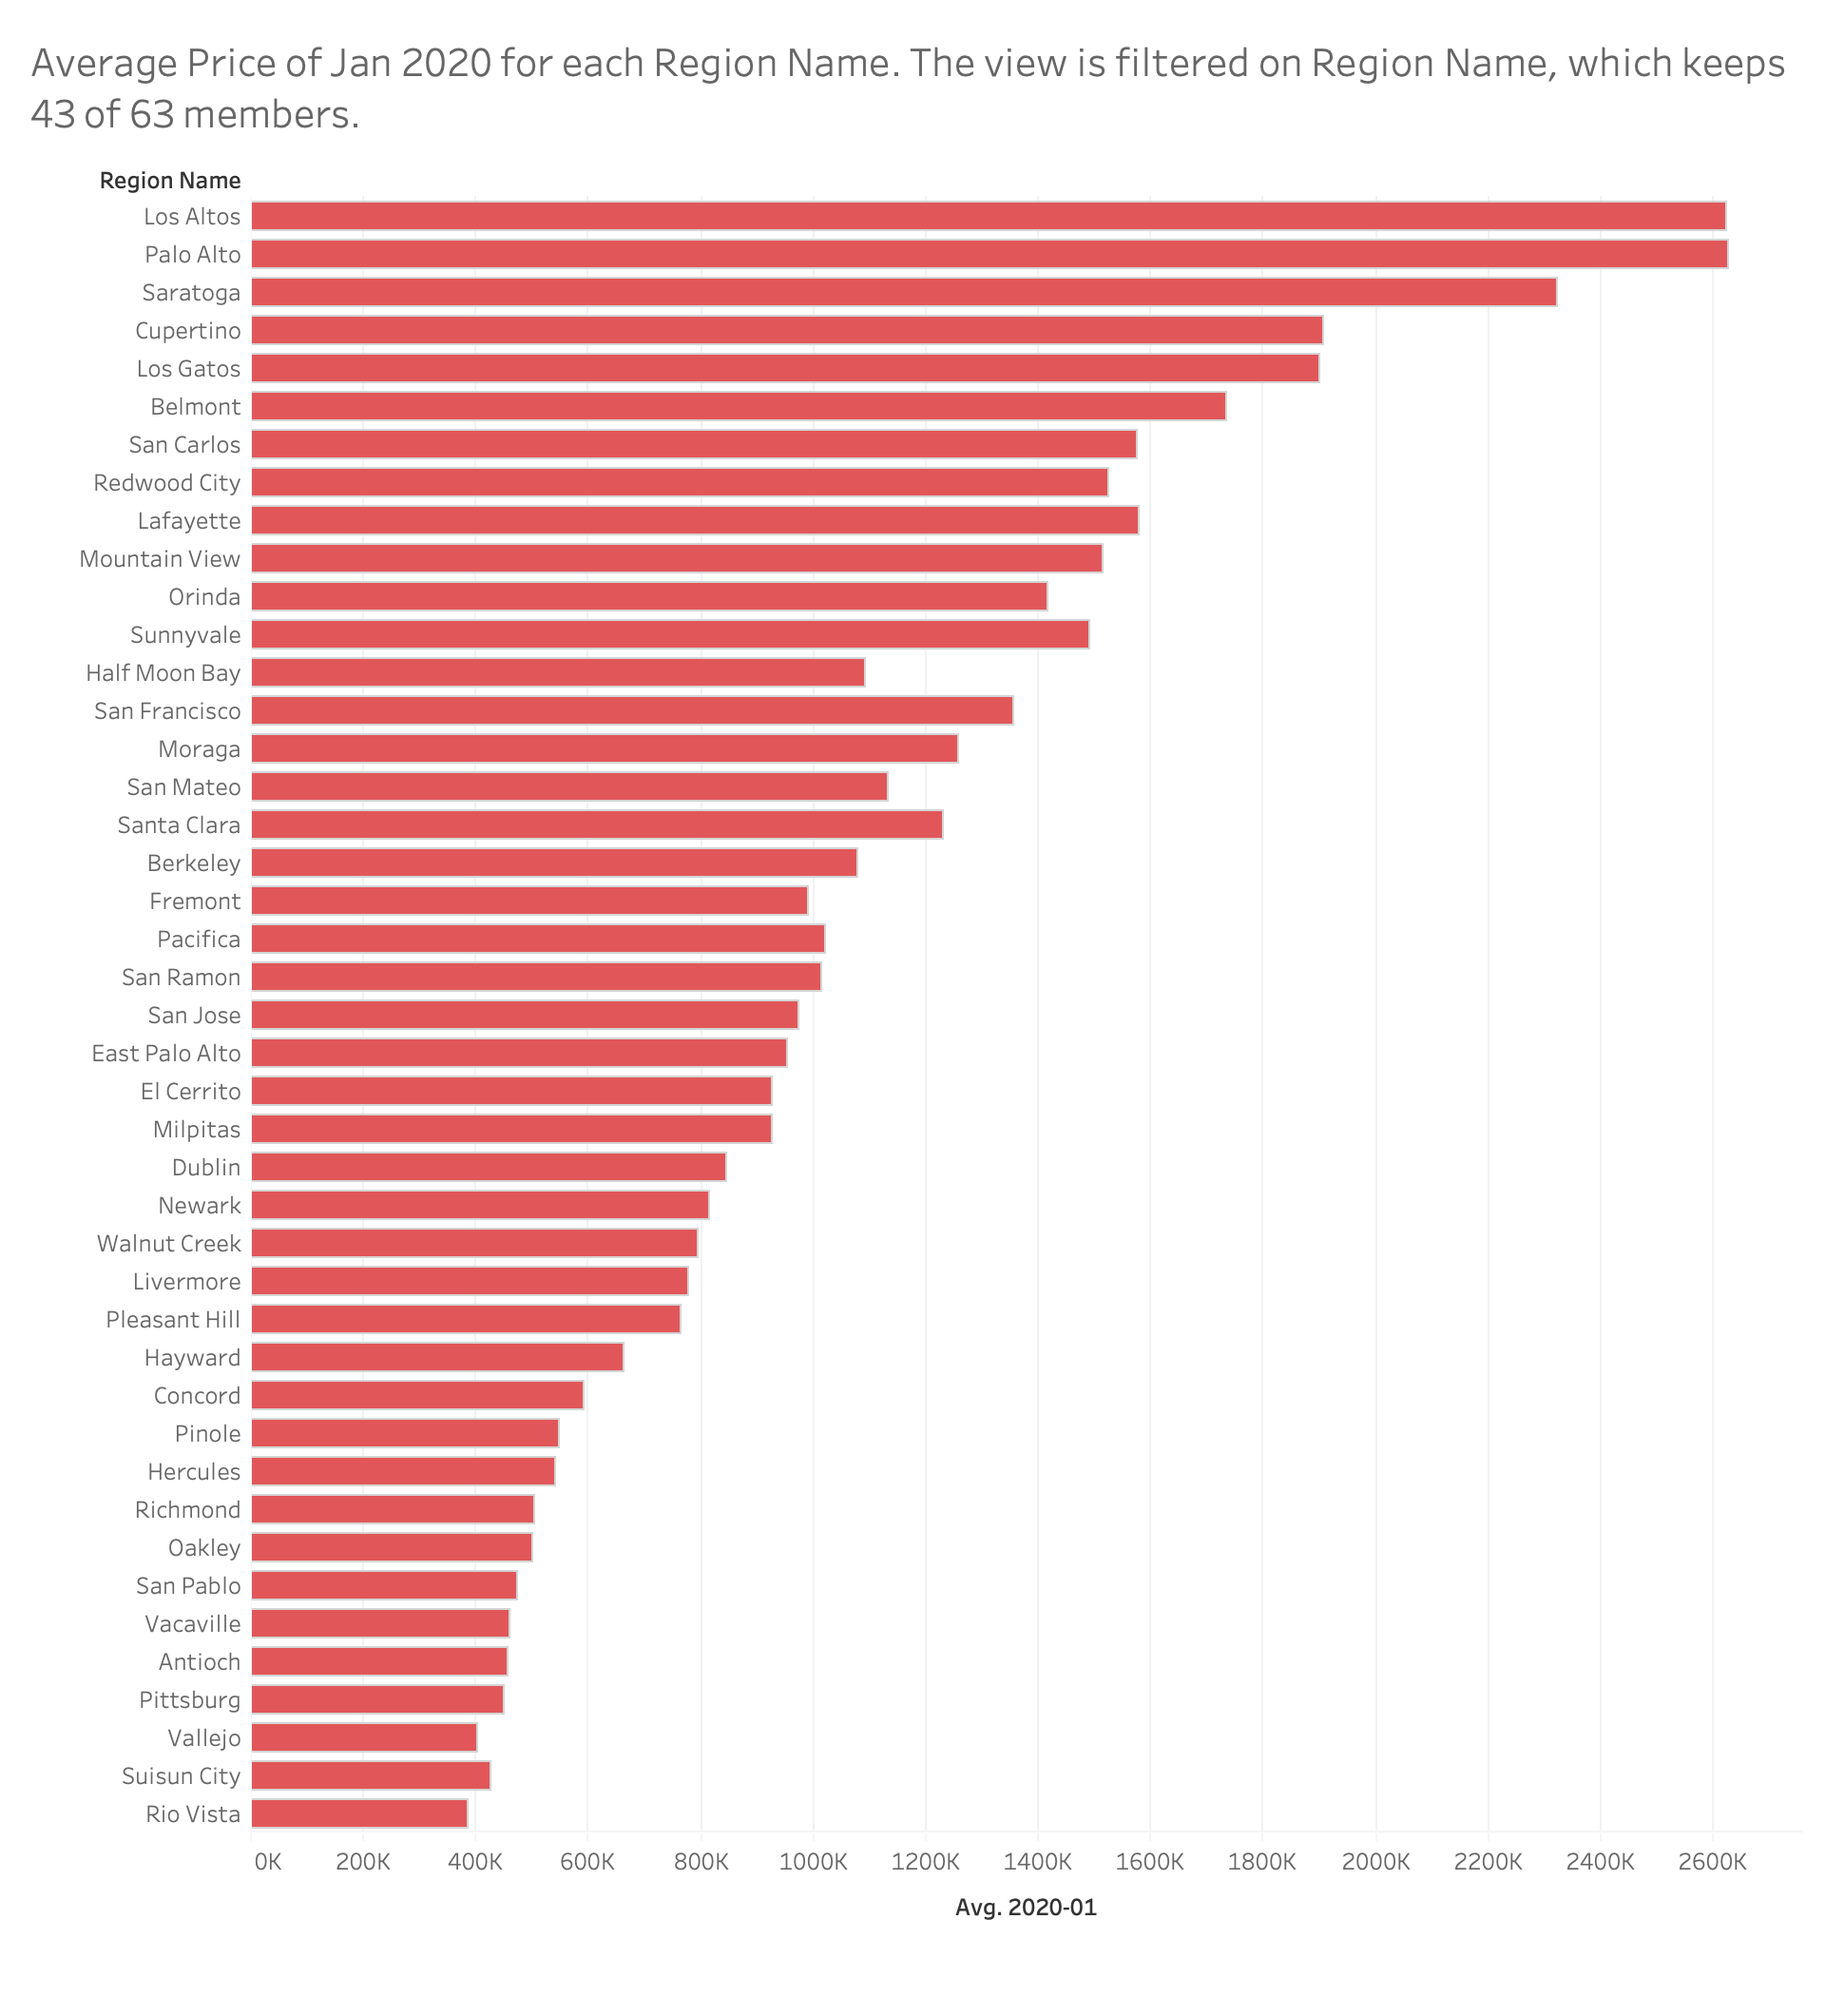
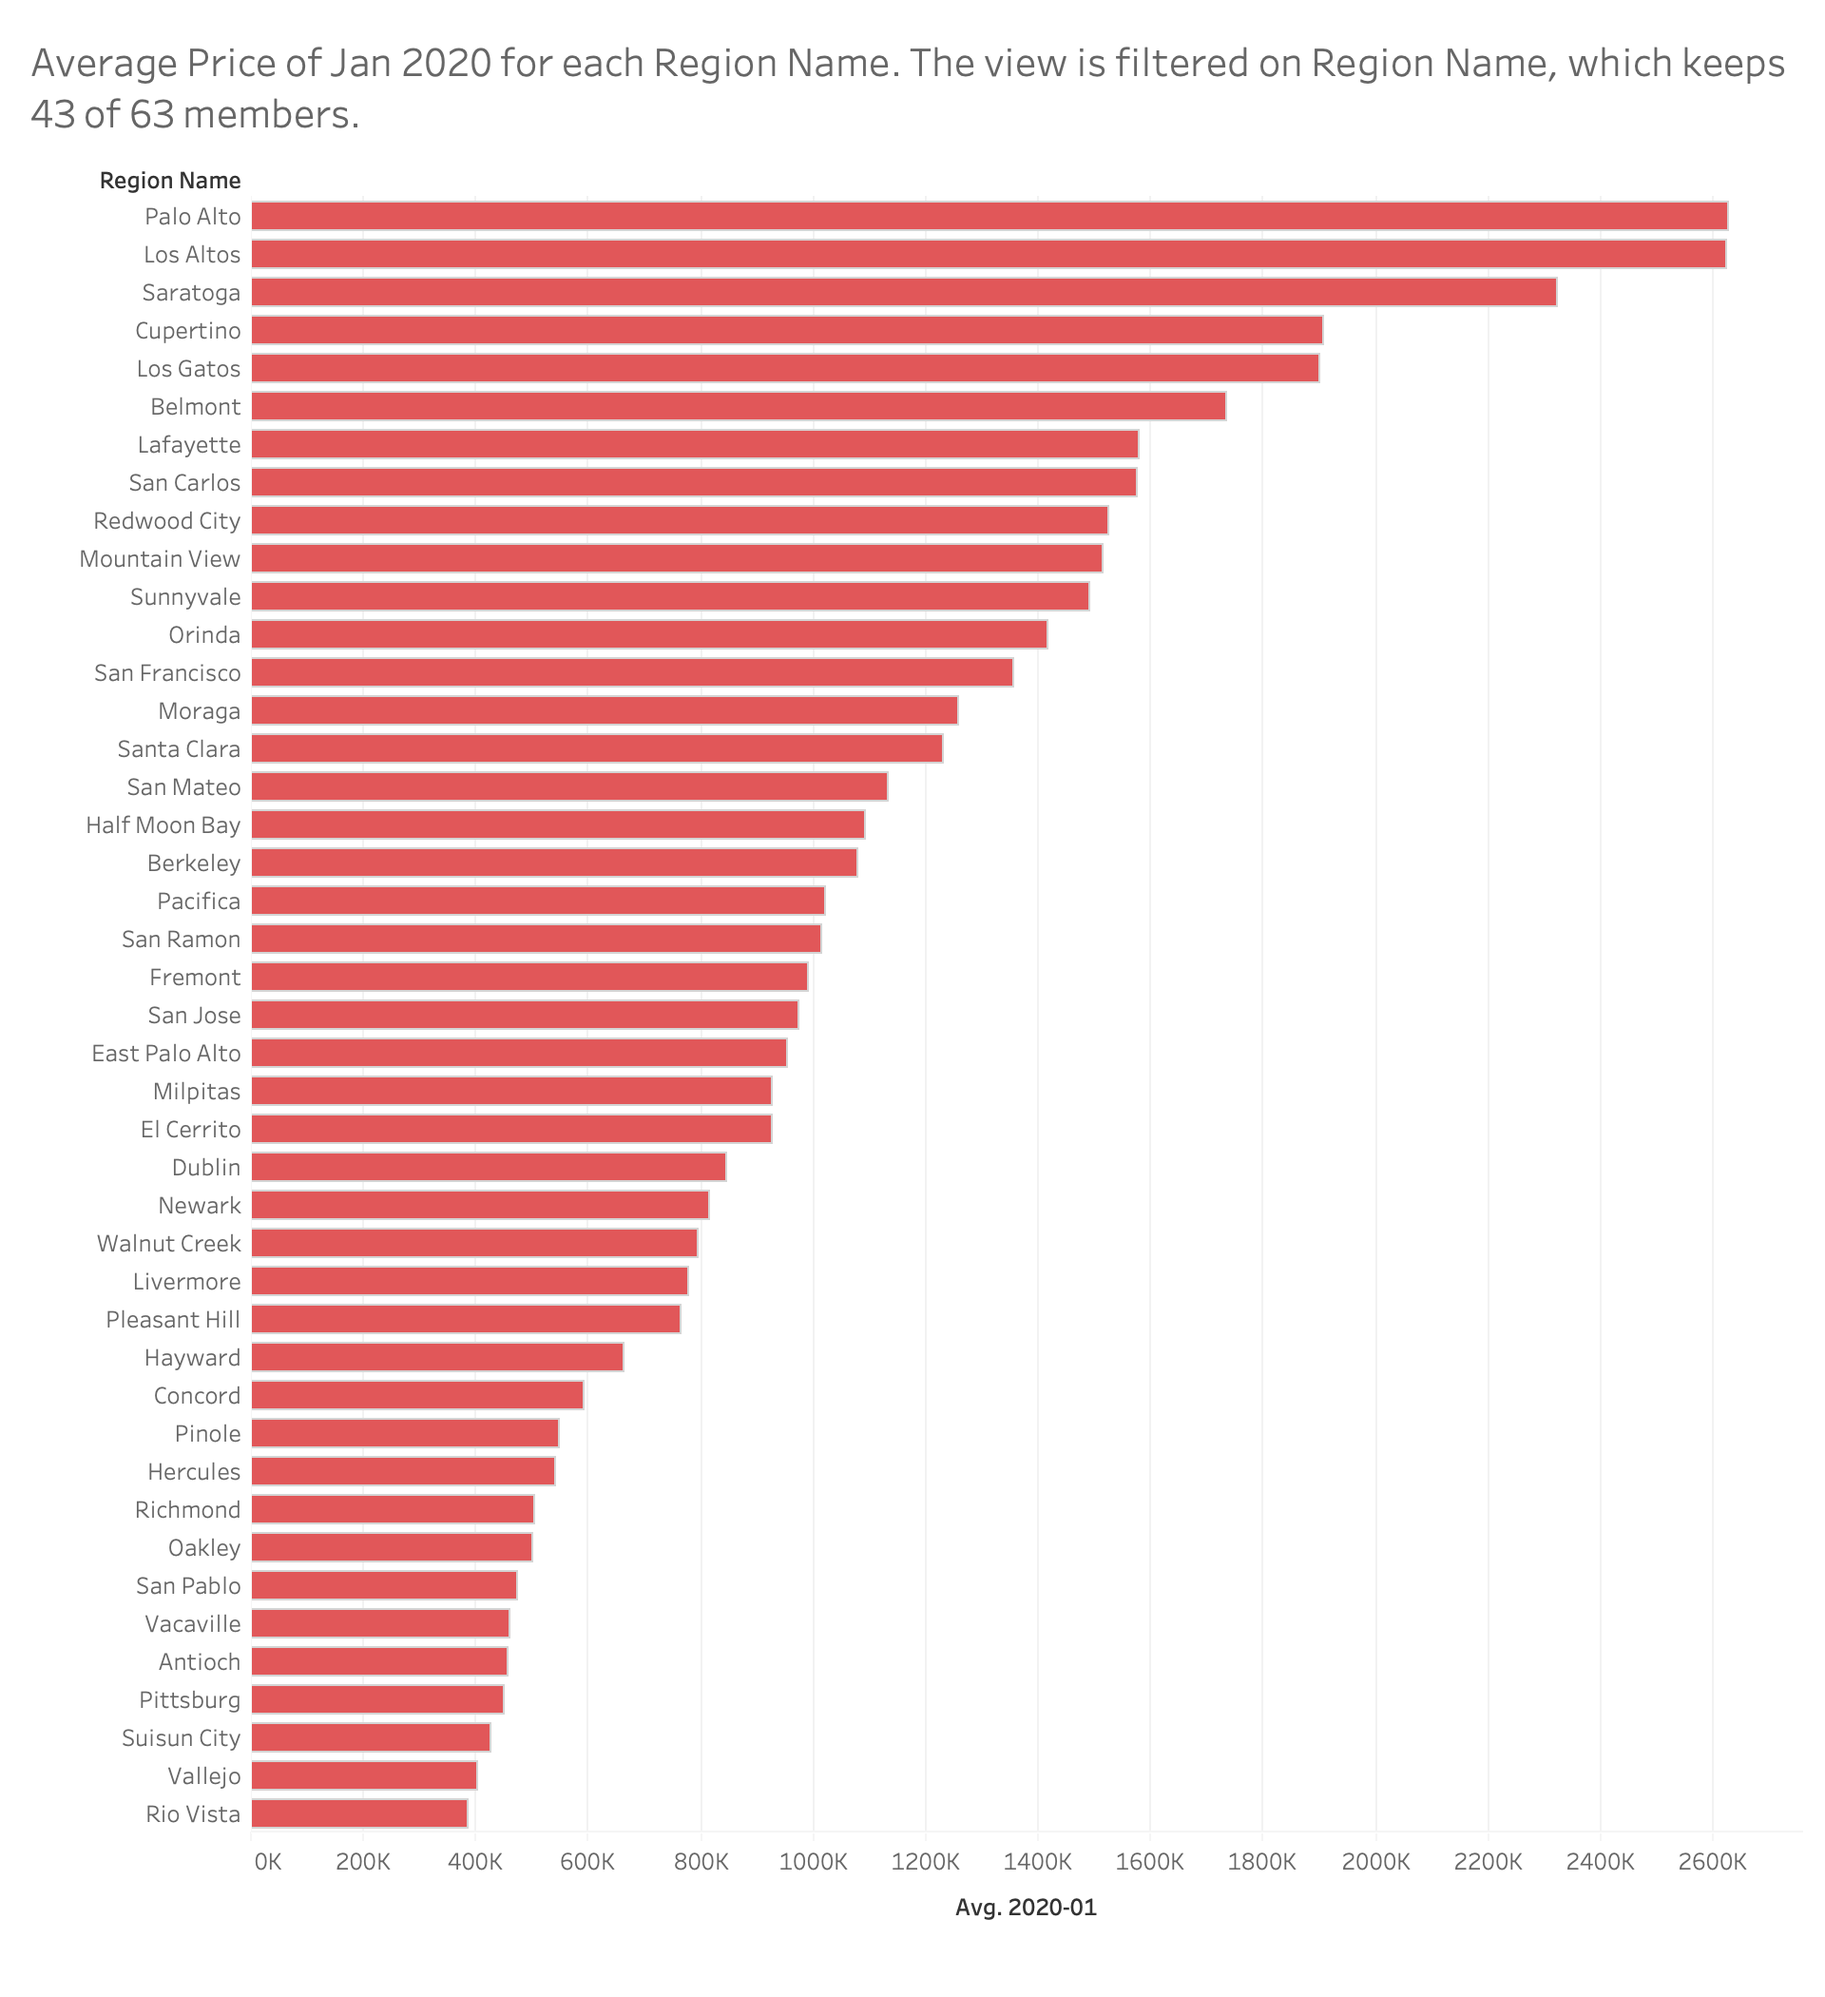
v5.2.0
- beta releash

diff --git a/pages/final/beta.html b/pages/final/beta.html
@@ -435,19 +435,90 @@
 						<div class="container">
 						  	<!-- Begin page content -->
 						  	<div class="content">
-								<h2 class="section-title">Prototype</h2>
-								<h3 class="section-title top-space">Average Price of Feb 2020 for each Region Name. The view is filtered on Region Name, which keeps 43 of 63 members.</h3>
-								<p>
-								For starter, I created a basic prototype based on the average price of different cities in the bay area in Feb 2020. Because the original dataset covers all data from the United States, so I did some data wrangling by filtering the data to focus on the cities only in the bay area, which are 63 cities in total and I got rid of 20 of them that showed no data in Feb 2020.</p>
+								<h2 class="section-title">Question</h2>
+								<h4>House Price</h4>
+								<ul>
+									<h5>What cities in the bay area have the highest house price in Jan 2020?</h5>
+									<li>What is the trend of the house price of the bay area in the last 5 years?</li>
+								</ul>
+								<h4>Count of House Sales</h4>
+								<ul>
+									<li>What is the count of house sales of all cities in the bay area?</li>
+									<li>What is the trend of the count of house sales of the bay area in the last 5 years?</li>
+								</ul>
+								<hr class="space">
+								<h2 class="section-title">Answer</h2>
+								<h4>House Price</h4>
+								<ul>
+									<li>According to the map, the south part of the bay area has a higher house price, following by the central part, while the north bay area has a lower house price.</li>
+									<li>According to the line chart, the average house price in the bay area kept growing and peaked at Jun 2018, but it started to drop in the following years.</li>
+								</ul>
+								<h4>Count of House Sales</h4>
+								<p>No answer at the moment yet.</p>
+								<hr class="space">
+								<h2 class="section-title">Prototype 1</h2>
+								<h3 class="section-title top-space">Bar Chart: Average Price of Feb 2020 for each Region Name. The view is filtered on Region Name, which keeps 43 of 63 members.</h3>
+								<h4 class="section-title top-space">Encoding</h4>
+								<ul>
+									<li>X-Axis: Average house price in the month of Jan 2020</li>
+									<li>Y-Axis: City names in the bay area</li>
+								</ul>
+								<h4 class="section-title top-space">Interactivity</h4>
+								<h5 class="section-title top-space">Tooltip & Highlight</h5>
+								<img src="../../assets/img/final/beta/beta-bar-interactivity1.gif" alt="Bar Interactivity">
+								<h5 class="section-title top-space">Sorting</h5>
+								<img src="../../assets/img/final/beta/beta-bar-interactivity2.gif" alt="Bar Interactivity">
+								<h4 class="section-title top-space">Prototype</h4>
 								<div class="card work-images">
 									<div class="card-body card-body-p">
 									  	<div class="chart-container">
 											<figure>
 												<img src="../../assets/img/final/beta/bar-chart.png" alt="passenger-count-activity-period">
 											</figure>
+										</div>
+									</div>
+								</div>
+								<h2 class="section-title">Prototype 2</h2>
+								<h3 class="section-title top-space">Line Chart: Average Price of from Jan 2014 to Jan 2020 by each Half Year for the Whole Bay Area.</h3>
+								<h4 class="section-title top-space">Encoding</h4>
+								<ul>
+									<li>X-Axis: Time period of each half year from Jan 2014 to Jan 2020</li>
+									<li>Y-Axis: The average house price of the whole bay area</li>
+
+								</ul>
+								<h4 class="section-title top-space">Interactivity</h4>
+								<h5 class="section-title top-space">Tooltip</h5>
+								<img src="../../assets/img/final/beta/beta-line-interactivity1.gif" alt="Bar Interactivity">
+								<h4 class="section-title top-space">Prototype</h4>
+								<div class="card work-images">
+									<div class="card-body card-body-p">
+									  	<div class="chart-container">
 											<figure>
 												<img src="../../assets/img/final/beta/line-chart.png" alt="passenger-count-activity-period">
 											</figure>
+									  	</div>
+									</div>
+								</div>
+								<h2 class="section-title">Prototype 3</h2>
+								<h3 class="section-title top-space">Map: Map based on Longitude (generated) and Latitude (generated).  Color shows average of 2020-01.  Size shows average of 2020-01.  Details are shown for Region Name.</h3>
+								<h4 class="section-title top-space">Encoding</h4>
+								<ul>
+									<li>Circle: Major cities in the bay area showed in the dataset</li>
+									<li>Color: Average house price in Jan 2020</li>
+									<li>Size: Currently also the average house price in Jan 2020, but will change to count of house sales in Jan 2020 in the implementation</li
+								</ul>
+								<h4 class="section-title top-space">Interactivity</h4>
+								<h5 class="section-title top-space">Tooltip</h5>
+								<img src="../../assets/img/final/beta/beta-map-interactivity1.gif" alt="Bar Interactivity">
+								<h5 class="section-title top-space">Zooming</h5>
+								<img src="../../assets/img/final/beta/beta-map-interactivity2.gif" alt="Bar Interactivity">
+								<h5 class="section-title top-space">Dragging</h5>
+								<img src="../../assets/img/final/beta/beta-map-interactivity3.gif" alt="Bar Interactivity">
+								<h5 class="section-title top-space">(Maybe) Filter</h5>
+								<h4 class="section-title top-space">Prototype</h4>
+								<div class="card work-images">
+									<div class="card-body card-body-p">
+									  	<div class="chart-container">
 											<figure>
 												<img src="../../assets/img/final/beta/map.png" alt="passenger-count-activity-period">
 											</figure>

diff --git a/index.html b/index.html
@@ -441,6 +441,18 @@
 												</div>
 											</td>
 										  </tr>
+										  <tr>
+											<td class="rt-header"><a href="pages/final/overview.html">Final Project</a></td>
+											<td class="rt-full">
+											  <i class="material-icons text-secondary" style="vertical-align:middle; line-height: 1">event</i>
+												May 13 2020<span class="text-secondary ml-1 d-none rt-table-inline">Due Date</span>
+											</td>
+											<td class="rt-full" style="width: 15rem">
+												<div class="progress progress-thin">
+													<div class="progress-bar bg-success" style="width:20%"></div>
+												</div>
+											</td>
+										  </tr>
 										</tbody>
 									</table>
 								</div>
